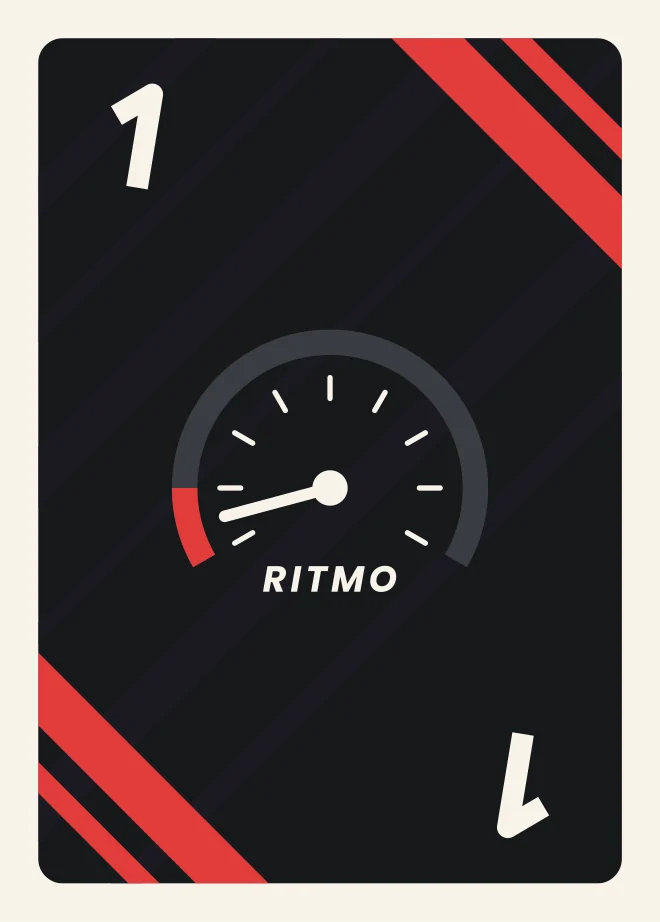
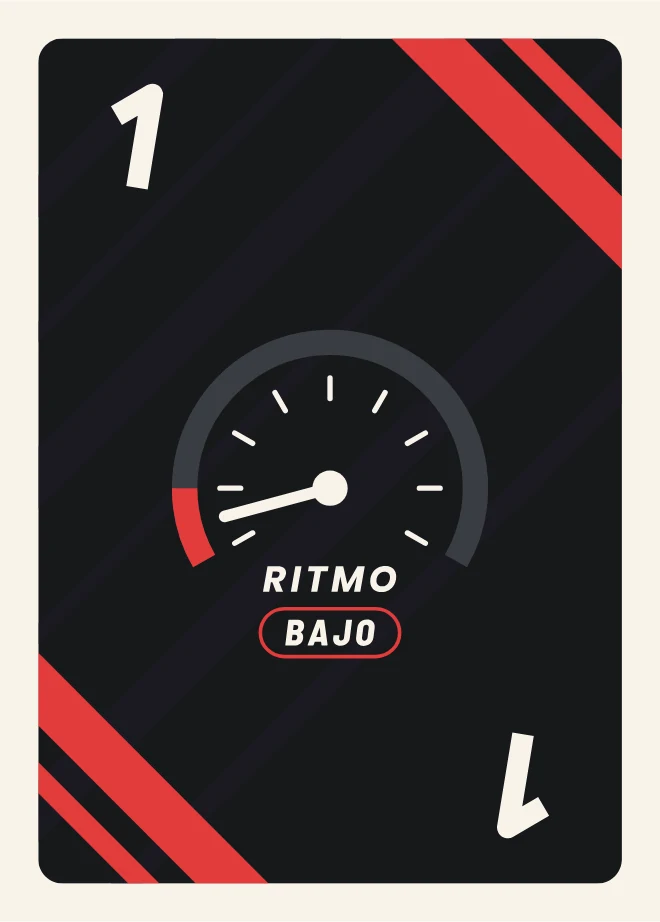
Assets: replace the PINTO rhythm cards with the new art
- Re-render ritmo-1…8.webp (660×922) from the owner's new SVGs, which add
  the "BAJO" / "ALTO" tag under the speedometer
- Bump card images to ?v=7 on every page and in VER (demo.js, multi.js,
  tutorial.js); demo.js ?v=20, tutorial.js ?v=22
- Update the versions in CLAUDE.md

Claude-Session: https://claude.ai/code/session_01NnqHpKXvdCMEMmsC6tfMJw

Changed region(s): [[0.3939, 0.6377, 0.6061, 0.7289]]

diff --git a/juegos/pinto/instrucciones/index.html b/juegos/pinto/instrucciones/index.html
@@ -80,11 +80,11 @@
         <img class="p-welcome__logo" src="../img/logo-pinto.webp" width="584" height="175" alt="PINTO">
         <p class="p-intro__lead">¿Es tu primera carrera? Esta página es una guía breve para aprender a jugar, conocer las cartas y resolver tus dudas. Encuentra tutoriales, videos explicativos y el reglamento oficial para que estés listo antes de llegar a la meta.</p>
         <div class="p-welcome__art" aria-hidden="true">
-          <img src="../img/cartas/ritmo-3.webp?v=6" width="660" height="922" alt="">
-          <img src="../img/cartas/bandera-roja.webp?v=6" width="660" height="922" alt="">
-          <img src="../img/cartas/bandera-a-cuadros.webp?v=6" width="660" height="922" alt="">
-          <img src="../img/cartas/vuelta-rapida.webp?v=6" width="660" height="922" alt="">
-          <img src="../img/cartas/ritmo-7.webp?v=6" width="660" height="922" alt="">
+          <img src="../img/cartas/ritmo-3.webp?v=7" width="660" height="922" alt="">
+          <img src="../img/cartas/bandera-roja.webp?v=7" width="660" height="922" alt="">
+          <img src="../img/cartas/bandera-a-cuadros.webp?v=7" width="660" height="922" alt="">
+          <img src="../img/cartas/vuelta-rapida.webp?v=7" width="660" height="922" alt="">
+          <img src="../img/cartas/ritmo-7.webp?v=7" width="660" height="922" alt="">
         </div>
       </section>
 
@@ -193,25 +193,25 @@
         <h2 class="p-h2" id="desarrollo-title">Desarrollo de la partida</h2>
         <ul class="p-rcards">
           <li class="p-rcard">
-            <div class="p-rcard__art p-rcard__art--gap" aria-hidden="true"><img src="../img/cartas/ritmo-4.webp?v=6" width="660" height="922" alt="" loading="lazy"><b class="p-rcard__arrow">→</b><img src="../img/cartas/ritmo-6.webp?v=6" width="660" height="922" alt="" loading="lazy"></div>
+            <div class="p-rcard__art p-rcard__art--gap" aria-hidden="true"><img src="../img/cartas/ritmo-4.webp?v=7" width="660" height="922" alt="" loading="lazy"><b class="p-rcard__arrow">→</b><img src="../img/cartas/ritmo-6.webp?v=7" width="660" height="922" alt="" loading="lazy"></div>
             <h3>Mantener el ritmo</h3>
             <p>Juega sobre el tope de la pila una carta de Ritmo de igual o mayor valor, o una Carta Especial que lo permita.</p>
             <a class="p-rcard__tut" href="../tutorial/#ritmo"><span class="p-rcard__play" aria-hidden="true"><svg viewBox="0 0 24 24"><path d="M7 4.5v15l12-7.5Z" fill="currentColor"/></svg></span>Ver tutorial<span class="visually-hidden">: Mantener el ritmo</span></a>
           </li>
           <li class="p-rcard">
-            <div class="p-rcard__art p-rcard__art--fan" aria-hidden="true"><img src="../img/cartas/ritmo-6.webp?v=6" width="660" height="922" alt="" loading="lazy"><img src="../img/cartas/ritmo-3.webp?v=6" width="660" height="922" alt="" loading="lazy"><img src="../img/cartas/ritmo-8.webp?v=6" width="660" height="922" alt="" loading="lazy"></div>
+            <div class="p-rcard__art p-rcard__art--fan" aria-hidden="true"><img src="../img/cartas/ritmo-6.webp?v=7" width="660" height="922" alt="" loading="lazy"><img src="../img/cartas/ritmo-3.webp?v=7" width="660" height="922" alt="" loading="lazy"><img src="../img/cartas/ritmo-8.webp?v=7" width="660" height="922" alt="" loading="lazy"></div>
             <h3>Ceder el paso</h3>
             <p>Si al comenzar tu turno no tienes una jugada válida, recoge toda la pila central y súmala a tu mano. Tu turno termina y el siguiente jugador tiene pista libre.</p>
             <a class="p-rcard__tut" href="../tutorial/#ceder"><span class="p-rcard__play" aria-hidden="true"><svg viewBox="0 0 24 24"><path d="M7 4.5v15l12-7.5Z" fill="currentColor"/></svg></span>Ver tutorial<span class="visually-hidden">: Ceder el paso</span></a>
           </li>
           <li class="p-rcard">
-            <div class="p-rcard__art p-rcard__art--gap" aria-hidden="true"><i class="p-rcard__empty"></i><b class="p-rcard__arrow">→</b><img src="../img/cartas/ritmo-2.webp?v=6" width="660" height="922" alt="" loading="lazy"></div>
+            <div class="p-rcard__art p-rcard__art--gap" aria-hidden="true"><i class="p-rcard__empty"></i><b class="p-rcard__arrow">→</b><img src="../img/cartas/ritmo-2.webp?v=7" width="660" height="922" alt="" loading="lazy"></div>
             <h3>Pista libre</h3>
             <p>Con la pila vacía, o cuando una carta concede pista libre, el siguiente jugador puede empezar con cualquier carta o combinación válida.</p>
             <a class="p-rcard__tut" href="../tutorial/#via-libre"><span class="p-rcard__play" aria-hidden="true"><svg viewBox="0 0 24 24"><path d="M7 4.5v15l12-7.5Z" fill="currentColor"/></svg></span>Ver tutorial<span class="visually-hidden">: Pista libre</span></a>
           </li>
           <li class="p-rcard">
-            <div class="p-rcard__art p-rcard__art--gap" aria-hidden="true"><img src="../img/cartas/ritmo-5.webp?v=6" width="660" height="922" alt="" loading="lazy"><img src="../img/cartas/ritmo-1.webp?v=6" width="660" height="922" alt="" loading="lazy"><img src="../img/cartas/reverso.webp?v=6" width="660" height="922" alt="" loading="lazy"></div>
+            <div class="p-rcard__art p-rcard__art--gap" aria-hidden="true"><img src="../img/cartas/ritmo-5.webp?v=7" width="660" height="922" alt="" loading="lazy"><img src="../img/cartas/ritmo-1.webp?v=7" width="660" height="922" alt="" loading="lazy"><img src="../img/cartas/reverso.webp?v=7" width="660" height="922" alt="" loading="lazy"></div>
             <h3>Fases de la carrera</h3>
             <p>Primero juegas las cartas de tu mano; sin cartas en la mano, tus visibles pasan a ser tu nueva mano. Al final tomas una carta oculta y la sumas a tu mano: si es válida, juégala; si no, cedes el paso. Solo al deshacerte de ella puedes tomar la siguiente. Si recoges la pila, debes deshacerte de todas las cartas de tu mano antes de avanzar de fase.</p>
             <a class="p-rcard__tut" href="../tutorial/#fases"><span class="p-rcard__play" aria-hidden="true"><svg viewBox="0 0 24 24"><path d="M7 4.5v15l12-7.5Z" fill="currentColor"/></svg></span>Ver tutorial<span class="visually-hidden">: Fases de la carrera</span></a>
@@ -224,31 +224,31 @@
         <h2 class="p-h2" id="reglas-title">Reglas de carrera</h2>
         <ul class="p-rcards">
           <li class="p-rcard">
-            <div class="p-rcard__art p-rcard__art--row" aria-hidden="true"><img src="../img/cartas/ritmo-3.webp?v=6" width="660" height="922" alt="" loading="lazy"><img src="../img/cartas/ritmo-5.webp?v=6" width="660" height="922" alt="" loading="lazy"><img src="../img/cartas/ritmo-7.webp?v=6" width="660" height="922" alt="" loading="lazy"></div>
+            <div class="p-rcard__art p-rcard__art--row" aria-hidden="true"><img src="../img/cartas/ritmo-3.webp?v=7" width="660" height="922" alt="" loading="lazy"><img src="../img/cartas/ritmo-5.webp?v=7" width="660" height="922" alt="" loading="lazy"><img src="../img/cartas/ritmo-7.webp?v=7" width="660" height="922" alt="" loading="lazy"></div>
             <h3>Tu turno</h3>
             <p>Comienza cuando colocas tu primera carta. Puedes jugar tantas cartas como las reglas permitan, juntas o una tras otra. Cuando ya jugaste al menos una, el siguiente jugador puede interrumpirte con una carta o combinación válida: tu turno termina y empieza el suyo. Si nadie te interrumpe, puedes seguir jugando o terminar tu turno.</p>
             <a class="p-rcard__tut" href="../tutorial/#turno"><span class="p-rcard__play" aria-hidden="true"><svg viewBox="0 0 24 24"><path d="M7 4.5v15l12-7.5Z" fill="currentColor"/></svg></span>Ver tutorial<span class="visually-hidden">: Tu turno</span></a>
           </li>
           <li class="p-rcard">
-            <div class="p-rcard__art p-rcard__art--fan" aria-hidden="true"><img src="../img/cartas/ritmo-7.webp?v=6" width="660" height="922" alt="" loading="lazy"><img src="../img/cartas/ritmo-7.webp?v=6" width="660" height="922" alt="" loading="lazy"><img src="../img/cartas/ritmo-7.webp?v=6" width="660" height="922" alt="" loading="lazy"></div>
+            <div class="p-rcard__art p-rcard__art--fan" aria-hidden="true"><img src="../img/cartas/ritmo-7.webp?v=7" width="660" height="922" alt="" loading="lazy"><img src="../img/cartas/ritmo-7.webp?v=7" width="660" height="922" alt="" loading="lazy"><img src="../img/cartas/ritmo-7.webp?v=7" width="660" height="922" alt="" loading="lazy"></div>
             <h3>Encadenar cartas</h3>
             <p>Puedes jugar varias cartas iguales a la vez: del mismo valor de Ritmo o del mismo tipo de Carta Especial. No es obligatorio. Las especiales encadenadas aplican su efecto una sola vez, no puedes mezclar valores o tipos distintos (salvo con el Turbo) y la Bandera a Cuadros no se encadena.</p>
             <a class="p-rcard__tut" href="../tutorial/#encadenar"><span class="p-rcard__play" aria-hidden="true"><svg viewBox="0 0 24 24"><path d="M7 4.5v15l12-7.5Z" fill="currentColor"/></svg></span>Ver tutorial<span class="visually-hidden">: Encadenar cartas</span></a>
           </li>
           <li class="p-rcard">
-            <div class="p-rcard__art p-rcard__art--gap" aria-hidden="true"><img src="../img/cartas/ritmo-6.webp?v=6" width="660" height="922" alt="" loading="lazy"><b class="p-rcard__arrow">→</b><img src="../img/cartas/reverso.webp?v=6" width="660" height="922" alt="" loading="lazy"></div>
+            <div class="p-rcard__art p-rcard__art--gap" aria-hidden="true"><img src="../img/cartas/ritmo-6.webp?v=7" width="660" height="922" alt="" loading="lazy"><b class="p-rcard__arrow">→</b><img src="../img/cartas/reverso.webp?v=7" width="660" height="922" alt="" loading="lazy"></div>
             <h3>Avanzar entre fases</h3>
             <p>Si terminas una fase y puedes seguir jugando (por Encadenar cartas o el Turbo), continúas en la siguiente sin esperar. Ej.: terminas tu mano con un Ritmo 4 y tienes otro 4 en tus visibles: juégalo de inmediato.</p>
             <a class="p-rcard__tut" href="../tutorial/#fases"><span class="p-rcard__play" aria-hidden="true"><svg viewBox="0 0 24 24"><path d="M7 4.5v15l12-7.5Z" fill="currentColor"/></svg></span>Ver tutorial<span class="visually-hidden">: Avanzar entre fases</span></a>
           </li>
           <li class="p-rcard">
-            <div class="p-rcard__art p-rcard__art--row" aria-hidden="true"><img src="../img/cartas/ritmo-2.webp?v=6" width="660" height="922" alt="" loading="lazy"><img src="../img/cartas/ritmo-2.webp?v=6" width="660" height="922" alt="" loading="lazy"><img src="../img/cartas/ritmo-2.webp?v=6" width="660" height="922" alt="" loading="lazy"><img src="../img/cartas/ritmo-2.webp?v=6" width="660" height="922" alt="" loading="lazy"></div>
+            <div class="p-rcard__art p-rcard__art--row" aria-hidden="true"><img src="../img/cartas/ritmo-2.webp?v=7" width="660" height="922" alt="" loading="lazy"><img src="../img/cartas/ritmo-2.webp?v=7" width="660" height="922" alt="" loading="lazy"><img src="../img/cartas/ritmo-2.webp?v=7" width="660" height="922" alt="" loading="lazy"><img src="../img/cartas/ritmo-2.webp?v=7" width="660" height="922" alt="" loading="lazy"></div>
             <h3>Retirar la pila</h3>
             <p>La pila se retira de la partida cuando se juegan cuatro cartas iguales seguidas (de uno o varios jugadores; una Bandera Azul corta la secuencia) o cuando un solo jugador coloca cuatro o más cartas en el mismo turno (por ejemplo, con un Turbo). El turno de quien colocó la última carta termina y el siguiente jugador tiene pista libre.</p>
             <a class="p-rcard__tut" href="../tutorial/#carril"><span class="p-rcard__play" aria-hidden="true"><svg viewBox="0 0 24 24"><path d="M7 4.5v15l12-7.5Z" fill="currentColor"/></svg></span>Ver tutorial<span class="visually-hidden">: Retirar la pila</span></a>
           </li>
           <li class="p-rcard">
-            <div class="p-rcard__art p-rcard__art--gap" aria-hidden="true"><img src="../img/cartas/bandera-roja.webp?v=6" width="660" height="922" alt="" loading="lazy"><img src="../img/cartas/bandera-a-cuadros.webp?v=6" width="660" height="922" alt="" loading="lazy"></div>
+            <div class="p-rcard__art p-rcard__art--gap" aria-hidden="true"><img src="../img/cartas/bandera-roja.webp?v=7" width="660" height="922" alt="" loading="lazy"><img src="../img/cartas/bandera-a-cuadros.webp?v=7" width="660" height="922" alt="" loading="lazy"></div>
             <h3>Fin de turno</h3>
             <p>La Bandera Roja, la Bandera a Cuadros y retirar la pila terminan el turno de inmediato.</p>
             <a class="p-rcard__tut" href="../tutorial/#turno"><span class="p-rcard__play" aria-hidden="true"><svg viewBox="0 0 24 24"><path d="M7 4.5v15l12-7.5Z" fill="currentColor"/></svg></span>Ver tutorial<span class="visually-hidden">: Fin de turno</span></a>
@@ -261,27 +261,27 @@
         <h2 class="p-h2" id="especiales-title">Cartas especiales</h2>
         <ul class="p-specials">
           <li class="p-card" style="--c: #9b4fd8">
-            <img src="../img/cartas/vuelta-rapida.webp?v=6" width="660" height="922" alt="" loading="lazy">
+            <img src="../img/cartas/vuelta-rapida.webp?v=7" width="660" height="922" alt="" loading="lazy">
             <div><h3>Vuelta Rápida</h3><p>Sobre cualquier carta excepto una Bandera Amarilla, o con pista libre. Marca el ritmo más alto: solo se responde con otra Vuelta Rápida, una Roja o una a Cuadros.</p><a class="p-rcard__tut" href="../tutorial/#vr"><span class="p-rcard__play" aria-hidden="true"><svg viewBox="0 0 24 24"><path d="M7 4.5v15l12-7.5Z" fill="currentColor"/></svg></span>Ver tutorial<span class="visually-hidden">: Vuelta Rápida</span></a></div>
           </li>
           <li class="p-card" style="--c: #f2bd23">
-            <img src="../img/cartas/bandera-amarilla.webp?v=6" width="660" height="922" alt="" loading="lazy">
+            <img src="../img/cartas/bandera-amarilla.webp?v=7" width="660" height="922" alt="" loading="lazy">
             <div><h3>Bandera Amarilla</h3><p>Sobre un Ritmo Bajo (1–4), otra Amarilla o con pista libre. El siguiente solo puede responder con un Ritmo Bajo, otra Amarilla, una Roja o una a Cuadros. Si es otra Amarilla, el efecto pasa al siguiente jugador.</p><a class="p-rcard__tut" href="../tutorial/#ama"><span class="p-rcard__play" aria-hidden="true"><svg viewBox="0 0 24 24"><path d="M7 4.5v15l12-7.5Z" fill="currentColor"/></svg></span>Ver tutorial<span class="visually-hidden">: Bandera Amarilla</span></a></div>
           </li>
           <li class="p-card" style="--c: #2f86de">
-            <img src="../img/cartas/bandera-azul.webp?v=6" width="660" height="922" alt="" loading="lazy">
+            <img src="../img/cartas/bandera-azul.webp?v=7" width="660" height="922" alt="" loading="lazy">
             <div><h3>Bandera Azul</h3><p>Sobre una carta de Ritmo, otra Azul o con pista libre. El siguiente jugador en carrera pierde su turno (si ya cruzó la meta, lo pierde el próximo en carrera). Quien sigue responde a la carta que quedó debajo de la Azul; si se jugó con pista libre, tiene pista libre.</p><a class="p-rcard__tut" href="../tutorial/#azul"><span class="p-rcard__play" aria-hidden="true"><svg viewBox="0 0 24 24"><path d="M7 4.5v15l12-7.5Z" fill="currentColor"/></svg></span>Ver tutorial<span class="visually-hidden">: Bandera Azul</span></a></div>
           </li>
           <li class="p-card" style="--c: #22b3c4">
-            <img src="../img/cartas/rebufo.webp?v=6" width="660" height="922" alt="" loading="lazy">
+            <img src="../img/cartas/rebufo.webp?v=7" width="660" height="922" alt="" loading="lazy">
             <div><h3>Turbo</h3><p>Sobre un Ritmo Bajo, otro Turbo o con pista libre. Puede ir solo, con otros Turbos o con Ritmos Altos (5–8) de uno o dos valores consecutivos, con varias copias de cada valor. Si va acompañado, manda el valor más alto.</p><a class="p-rcard__tut" href="../tutorial/#reb"><span class="p-rcard__play" aria-hidden="true"><svg viewBox="0 0 24 24"><path d="M7 4.5v15l12-7.5Z" fill="currentColor"/></svg></span>Ver tutorial<span class="visually-hidden">: Turbo</span></a></div>
           </li>
           <li class="p-card" style="--c: #e8e2d6">
-            <img src="../img/cartas/bandera-a-cuadros.webp?v=6" width="660" height="922" alt="" loading="lazy">
+            <img src="../img/cartas/bandera-a-cuadros.webp?v=7" width="660" height="922" alt="" loading="lazy">
             <div><h3>Bandera a Cuadros</h3><p>Sobre cualquier carta o con pista libre. Retira toda la pila de la partida y el siguiente tiene pista libre. Solo una por turno y tu turno termina.</p><a class="p-rcard__tut" href="../tutorial/#cuad"><span class="p-rcard__play" aria-hidden="true"><svg viewBox="0 0 24 24"><path d="M7 4.5v15l12-7.5Z" fill="currentColor"/></svg></span>Ver tutorial<span class="visually-hidden">: Bandera a Cuadros</span></a></div>
           </li>
           <li class="p-card" style="--c: #e5463b">
-            <img src="../img/cartas/bandera-roja.webp?v=6" width="660" height="922" alt="" loading="lazy">
+            <img src="../img/cartas/bandera-roja.webp?v=7" width="660" height="922" alt="" loading="lazy">
             <div><h3>Bandera Roja</h3><p>Sobre cualquier carta o con pista libre. Reinicia el ritmo sin descartar: la pila se queda en la mesa. Tu turno termina y el siguiente tiene pista libre.</p><a class="p-rcard__tut" href="../tutorial/#roja"><span class="p-rcard__play" aria-hidden="true"><svg viewBox="0 0 24 24"><path d="M7 4.5v15l12-7.5Z" fill="currentColor"/></svg></span>Ver tutorial<span class="visually-hidden">: Bandera Roja</span></a></div>
           </li>
         </ul>
@@ -302,27 +302,27 @@
                 <td><p class="p-ref__text">Cualquier carta o combinación válida.</p></td>
               </tr>
               <tr>
-                <th scope="row"><div class="p-ref__top"><span class="p-stack" role="img" aria-label=""><img src="../img/cartas/ritmo-1.webp?v=6" width="660" height="922" alt="" loading="lazy"><img src="../img/cartas/ritmo-2.webp?v=6" width="660" height="922" alt="" loading="lazy"><img src="../img/cartas/ritmo-3.webp?v=6" width="660" height="922" alt="" loading="lazy"><img src="../img/cartas/ritmo-4.webp?v=6" width="660" height="922" alt="" loading="lazy"></span><span>Ritmos Bajos</span></div></th>
+                <th scope="row"><div class="p-ref__top"><span class="p-stack" role="img" aria-label=""><img src="../img/cartas/ritmo-1.webp?v=7" width="660" height="922" alt="" loading="lazy"><img src="../img/cartas/ritmo-2.webp?v=7" width="660" height="922" alt="" loading="lazy"><img src="../img/cartas/ritmo-3.webp?v=7" width="660" height="922" alt="" loading="lazy"><img src="../img/cartas/ritmo-4.webp?v=7" width="660" height="922" alt="" loading="lazy"></span><span>Ritmos Bajos</span></div></th>
                 <td><p class="p-ref__text">Un Ritmo igual o superior o cualquier carta especial.</p></td>
               </tr>
               <tr>
-                <th scope="row"><div class="p-ref__top"><span class="p-stack" role="img" aria-label=""><img src="../img/cartas/ritmo-5.webp?v=6" width="660" height="922" alt="" loading="lazy"><img src="../img/cartas/ritmo-6.webp?v=6" width="660" height="922" alt="" loading="lazy"><img src="../img/cartas/ritmo-7.webp?v=6" width="660" height="922" alt="" loading="lazy"><img src="../img/cartas/ritmo-8.webp?v=6" width="660" height="922" alt="" loading="lazy"></span><span>Ritmos Altos</span></div></th>
+                <th scope="row"><div class="p-ref__top"><span class="p-stack" role="img" aria-label=""><img src="../img/cartas/ritmo-5.webp?v=7" width="660" height="922" alt="" loading="lazy"><img src="../img/cartas/ritmo-6.webp?v=7" width="660" height="922" alt="" loading="lazy"><img src="../img/cartas/ritmo-7.webp?v=7" width="660" height="922" alt="" loading="lazy"><img src="../img/cartas/ritmo-8.webp?v=7" width="660" height="922" alt="" loading="lazy"></span><span>Ritmos Altos</span></div></th>
                 <td><p class="p-ref__text">Un Ritmo igual o superior y cualquier carta especial, salvo el Turbo o la Bandera Amarilla.</p></td>
               </tr>
               <tr>
-                <th scope="row"><div class="p-ref__top"><span class="p-mini"><img src="../img/cartas/bandera-amarilla.webp?v=6" width="660" height="922" alt="Bandera Amarilla" loading="lazy"></span><span>Bandera Amarilla</span></div></th>
+                <th scope="row"><div class="p-ref__top"><span class="p-mini"><img src="../img/cartas/bandera-amarilla.webp?v=7" width="660" height="922" alt="Bandera Amarilla" loading="lazy"></span><span>Bandera Amarilla</span></div></th>
                 <td><p class="p-ref__text">Ritmos Bajos, otra Bandera Amarilla, Bandera Roja o Bandera a Cuadros.</p></td>
               </tr>
               <tr>
-                <th scope="row"><div class="p-ref__top"><span class="p-mini"><img src="../img/cartas/bandera-azul.webp?v=6" width="660" height="922" alt="Bandera Azul" loading="lazy"></span><span>Bandera Azul</span></div></th>
+                <th scope="row"><div class="p-ref__top"><span class="p-mini"><img src="../img/cartas/bandera-azul.webp?v=7" width="660" height="922" alt="Bandera Azul" loading="lazy"></span><span>Bandera Azul</span></div></th>
                 <td><p class="p-ref__text">Depende de la carta inferior.</p></td>
               </tr>
               <tr>
-                <th scope="row"><div class="p-ref__top"><span class="p-mini"><img src="../img/cartas/vuelta-rapida.webp?v=6" width="660" height="922" alt="Vuelta Rápida" loading="lazy"></span><span>Vuelta Rápida</span></div></th>
+                <th scope="row"><div class="p-ref__top"><span class="p-mini"><img src="../img/cartas/vuelta-rapida.webp?v=7" width="660" height="922" alt="Vuelta Rápida" loading="lazy"></span><span>Vuelta Rápida</span></div></th>
                 <td><p class="p-ref__text">Vuelta Rápida, Bandera Roja o Bandera a Cuadros.</p></td>
               </tr>
               <tr>
-                <th scope="row"><div class="p-ref__top"><span class="p-mini"><img src="../img/cartas/rebufo.webp?v=6" width="660" height="922" alt="Turbo" loading="lazy"></span><span>Turbo</span></div></th>
+                <th scope="row"><div class="p-ref__top"><span class="p-mini"><img src="../img/cartas/rebufo.webp?v=7" width="660" height="922" alt="Turbo" loading="lazy"></span><span>Turbo</span></div></th>
                 <td><p class="p-ref__text">Ritmos Altos, otro Turbo, Vuelta Rápida, Bandera Roja o Bandera a Cuadros.</p></td>
               </tr>
             </tbody>

diff --git a/juegos/pinto/index.html b/juegos/pinto/index.html
@@ -150,14 +150,14 @@
       <section class="p-section" id="cartas" aria-labelledby="ritmo-title">
         <h2 class="p-h2" id="ritmo-title">Cartas de ritmo</h2>
         <ul class="p-fan" aria-label="Cartas de ritmo del 1 al 8">
-          <li><img src="img/cartas/ritmo-1.webp?v=6" width="660" height="922" alt="Carta de ritmo 1" loading="lazy"></li>
-          <li><img src="img/cartas/ritmo-2.webp?v=6" width="660" height="922" alt="Carta de ritmo 2" loading="lazy"></li>
-          <li><img src="img/cartas/ritmo-3.webp?v=6" width="660" height="922" alt="Carta de ritmo 3" loading="lazy"></li>
-          <li><img src="img/cartas/ritmo-4.webp?v=6" width="660" height="922" alt="Carta de ritmo 4" loading="lazy"></li>
-          <li><img src="img/cartas/ritmo-5.webp?v=6" width="660" height="922" alt="Carta de ritmo 5" loading="lazy"></li>
-          <li><img src="img/cartas/ritmo-6.webp?v=6" width="660" height="922" alt="Carta de ritmo 6" loading="lazy"></li>
-          <li><img src="img/cartas/ritmo-7.webp?v=6" width="660" height="922" alt="Carta de ritmo 7" loading="lazy"></li>
-          <li><img src="img/cartas/ritmo-8.webp?v=6" width="660" height="922" alt="Carta de ritmo 8" loading="lazy"></li>
+          <li><img src="img/cartas/ritmo-1.webp?v=7" width="660" height="922" alt="Carta de ritmo 1" loading="lazy"></li>
+          <li><img src="img/cartas/ritmo-2.webp?v=7" width="660" height="922" alt="Carta de ritmo 2" loading="lazy"></li>
+          <li><img src="img/cartas/ritmo-3.webp?v=7" width="660" height="922" alt="Carta de ritmo 3" loading="lazy"></li>
+          <li><img src="img/cartas/ritmo-4.webp?v=7" width="660" height="922" alt="Carta de ritmo 4" loading="lazy"></li>
+          <li><img src="img/cartas/ritmo-5.webp?v=7" width="660" height="922" alt="Carta de ritmo 5" loading="lazy"></li>
+          <li><img src="img/cartas/ritmo-6.webp?v=7" width="660" height="922" alt="Carta de ritmo 6" loading="lazy"></li>
+          <li><img src="img/cartas/ritmo-7.webp?v=7" width="660" height="922" alt="Carta de ritmo 7" loading="lazy"></li>
+          <li><img src="img/cartas/ritmo-8.webp?v=7" width="660" height="922" alt="Carta de ritmo 8" loading="lazy"></li>
         </ul>
       </section>
 
@@ -166,27 +166,27 @@
         <h2 class="p-h2" id="especiales-title">Cartas especiales</h2>
         <ul class="p-specials p-specials--compact">
           <li class="p-card" style="--c: #e8e2d6">
-            <img src="img/cartas/bandera-a-cuadros.webp?v=6" width="660" height="922" alt="" loading="lazy">
+            <img src="img/cartas/bandera-a-cuadros.webp?v=7" width="660" height="922" alt="" loading="lazy">
             <h3>Bandera a Cuadros</h3>
           </li>
           <li class="p-card" style="--c: #e5463b">
-            <img src="img/cartas/bandera-roja.webp?v=6" width="660" height="922" alt="" loading="lazy">
+            <img src="img/cartas/bandera-roja.webp?v=7" width="660" height="922" alt="" loading="lazy">
             <h3>Bandera Roja</h3>
           </li>
           <li class="p-card" style="--c: #f2bd23">
-            <img src="img/cartas/bandera-amarilla.webp?v=6" width="660" height="922" alt="" loading="lazy">
+            <img src="img/cartas/bandera-amarilla.webp?v=7" width="660" height="922" alt="" loading="lazy">
             <h3>Bandera Amarilla</h3>
           </li>
           <li class="p-card" style="--c: #2f86de">
-            <img src="img/cartas/bandera-azul.webp?v=6" width="660" height="922" alt="" loading="lazy">
+            <img src="img/cartas/bandera-azul.webp?v=7" width="660" height="922" alt="" loading="lazy">
             <h3>Bandera Azul</h3>
           </li>
           <li class="p-card" style="--c: #9b4fd8">
-            <img src="img/cartas/vuelta-rapida.webp?v=6" width="660" height="922" alt="" loading="lazy">
+            <img src="img/cartas/vuelta-rapida.webp?v=7" width="660" height="922" alt="" loading="lazy">
             <h3>Vuelta Rápida</h3>
           </li>
           <li class="p-card" style="--c: #22b3c4">
-            <img src="img/cartas/rebufo.webp?v=6" width="660" height="922" alt="" loading="lazy">
+            <img src="img/cartas/rebufo.webp?v=7" width="660" height="922" alt="" loading="lazy">
             <h3>Turbo</h3>
           </li>
         </ul>
@@ -218,7 +218,7 @@
 
       <!-- Cierre -->
       <section class="p-cta" aria-labelledby="cta-title">
-        <img class="p-cta__card" src="img/cartas/reverso.webp?v=6" width="660" height="922" alt="" loading="lazy">
+        <img class="p-cta__card" src="img/cartas/reverso.webp?v=7" width="660" height="922" alt="" loading="lazy">
         <div class="p-cta__copy">
           <h2 class="p-h2" id="cta-title">Muy pronto en la parrilla de salida</h2>
           <p>PINTO está calentando motores. Síguenos para enterarte primero de dónde conseguirlo.</p>

diff --git a/index.html b/index.html
@@ -148,8 +148,8 @@
 
         <a class="h-game" href="juegos/pinto/" aria-labelledby="pinto-name">
           <div class="h-game__art">
-            <img class="h-game__card h-game__card--a" src="juegos/pinto/img/cartas/ritmo-8.webp?v=6" width="660" height="922" alt="" loading="lazy">
-            <img class="h-game__card h-game__card--b" src="juegos/pinto/img/cartas/bandera-a-cuadros.webp?v=6" width="660" height="922" alt="" loading="lazy">
+            <img class="h-game__card h-game__card--a" src="juegos/pinto/img/cartas/ritmo-8.webp?v=7" width="660" height="922" alt="" loading="lazy">
+            <img class="h-game__card h-game__card--b" src="juegos/pinto/img/cartas/bandera-a-cuadros.webp?v=7" width="660" height="922" alt="" loading="lazy">
             <img class="h-game__box" src="assets/pinto-caja.webp?v=2" width="560" height="798" alt="Caja del juego PINTO" loading="lazy">
           </div>
           <div class="h-game__copy">
@@ -240,7 +240,7 @@
             <h2 class="h-h2" id="join-title">Entérate <span class="accent">primero.</span></h2>
             <p class="h-join__lead">Suscríbete y recibe novedades, adelantos y contenido exclusivo de Kori Labs directo en tu correo.</p>
             <div class="h-join__gift">
-              <img src="juegos/pinto/img/cartas/reverso.webp?v=6" width="660" height="922" alt="" loading="lazy">
+              <img src="juegos/pinto/img/cartas/reverso.webp?v=7" width="660" height="922" alt="" loading="lazy">
               <p><strong>De regalo:</strong> una plantilla exclusiva para jugar PINTO en modo Temporada, lista para imprimir cuando PINTO llegue a tu mesa.</p>
             </div>
           </div>

diff --git a/juegos/pinto/tutorial/tutorial.js b/juegos/pinto/tutorial/tutorial.js
@@ -16,7 +16,7 @@
   if (!T || !app) return;
 
   var BASE = app.getAttribute('data-cards') || '../img/cartas/';
-  var VER = '?v=6';
+  var VER = '?v=7';
   var FILES = { cuad: 'bandera-a-cuadros', roja: 'bandera-roja', ama: 'bandera-amarilla', azul: 'bandera-azul', vr: 'vuelta-rapida', reb: 'rebufo', back: 'reverso' };
   var NAMES = { cuad: 'Bandera a Cuadros', roja: 'Bandera Roja', ama: 'Bandera Amarilla', azul: 'Bandera Azul', vr: 'Vuelta Rápida', reb: 'Turbo', back: 'Carta oculta' };
   var reduced = window.matchMedia && window.matchMedia('(prefers-reduced-motion: reduce)').matches;

diff --git a/juegos/pinto/demo/demo.js b/juegos/pinto/demo/demo.js
@@ -14,7 +14,7 @@
   if (!E || !board) return;
 
   var BASE = board.getAttribute('data-cards') || '../img/cartas/';
-  var VER = '?v=6'; // card images version (keep in sync with the HTML pages)
+  var VER = '?v=7'; // card images version (keep in sync with the HTML pages)
   var BOT_DELAY = 2600;      // each bot "thinks" this long, so new players can follow
   var AFTER_CHAIN = 700;     // first bot after your 5 s window (you already waited)
   var CHAIN_MS = 5000;       // time you have to add another card of the same value

diff --git a/juegos/pinto/tutorial/index.html b/juegos/pinto/tutorial/index.html
@@ -27,7 +27,7 @@
   <link rel="stylesheet" href="../../../css/pinto.css?v=37">
   <link rel="stylesheet" href="../../../css/pinto-tutorial.css?v=16">
   <script src="tutorial-data.js?v=21" defer></script>
-  <script src="tutorial.js?v=21" defer></script>
+  <script src="tutorial.js?v=22" defer></script>
   <script src="../menu.js?v=1" defer></script>
 </head>
 <body class="pinto pinto-tutorial">

diff --git a/juegos/pinto/demo/index.html b/juegos/pinto/demo/index.html
@@ -28,7 +28,7 @@
   <link rel="stylesheet" href="../../../css/pinto.css?v=37">
   <link rel="stylesheet" href="../../../css/pinto-demo.css?v=18">
   <script src="pinto-engine.js?v=14" defer></script>
-  <script src="demo.js?v=19" defer></script>
+  <script src="demo.js?v=20" defer></script>
   <script src="../menu.js?v=1" defer></script>
 </head>
 <body class="pinto pinto-demo">

diff --git a/juegos/pinto/demo/multijugador/multi.js b/juegos/pinto/demo/multijugador/multi.js
@@ -14,7 +14,7 @@
   if (!E || !root || !board) return;
 
   var BASE = board.getAttribute('data-cards') || '../../img/cartas/';
-  var VER = '?v=6'; // card images version (keep in sync with the HTML pages)
+  var VER = '?v=7'; // card images version (keep in sync with the HTML pages)
   var CHAIN_MS = 5000;
   var FLY_MS = 750;
   var DOUBLE_TAP_MS = 380;

diff --git a/CLAUDE.md b/CLAUDE.md
@@ -220,7 +220,7 @@ container's real width (`drawChart`, redrawn on resize); colors are the player/t
 - **Cache busting:** CSS/JS/image links carry `?v=N`. When you change a file, bump its `N` **in every
   page that links it** (e.g. `home.css` is linked from `index.html` *and* `privacidad/index.html`).
   Current: `styles.css?v=2`, `home.css?v=11` (index, privacidad and taller/pinto),
-  `pinto.css?v=37`, card images `?v=6` (also `VER` in `demo.js` and `multi.js`), `pinto-demo.css?v=18`, `pinto-engine.js?v=14`, `demo.js?v=19`, `multi.js?v=5`, `legal.css?v=1`, `pinto-tutorial.css?v=16`, `tutorial-data.js?v=21`, `tutorial.js?v=21`, `pinto-temporada.css?v=12`, `temporada.js?v=12`, PINTO favicons `?v=1`, `menu.js?v=1`, `box3d.js?v=2`, `favicon.svg?v=2`, `sello-hecho-en-costa-rica.svg?v=3`, box faces `?v=3` (caja-reverso `?v=4`, re-cut from the owner's Pinto_caja_ARTE.svg: back panel x 1282, y 430, 757×1057 at 1 unit = 1 px).
+  `pinto.css?v=37`, card images `?v=7` (also `VER` in `demo.js` and `multi.js`), `pinto-demo.css?v=18`, `pinto-engine.js?v=14`, `demo.js?v=20`, `multi.js?v=5`, `legal.css?v=1`, `pinto-tutorial.css?v=16`, `tutorial-data.js?v=21`, `tutorial.js?v=22`, `pinto-temporada.css?v=12`, `temporada.js?v=12`, PINTO favicons `?v=1`, `menu.js?v=1`, `box3d.js?v=2`, `favicon.svg?v=2`, `sello-hecho-en-costa-rica.svg?v=3`, box faces `?v=3` (caja-reverso `?v=4`, re-cut from the owner's Pinto_caja_ARTE.svg: back panel x 1282, y 430, 757×1057 at 1 unit = 1 px).
 - **Relative paths everywhere** (`../../css/…`). Pages live in folders as `index.html` so URLs are clean
   (`/juegos/pinto/`). New pages: create `folder/index.html`, copy the head/header/footer of a sibling page.
 - **Sender (newsletter):** universal script in the `<head>` of `index.html`; form is
